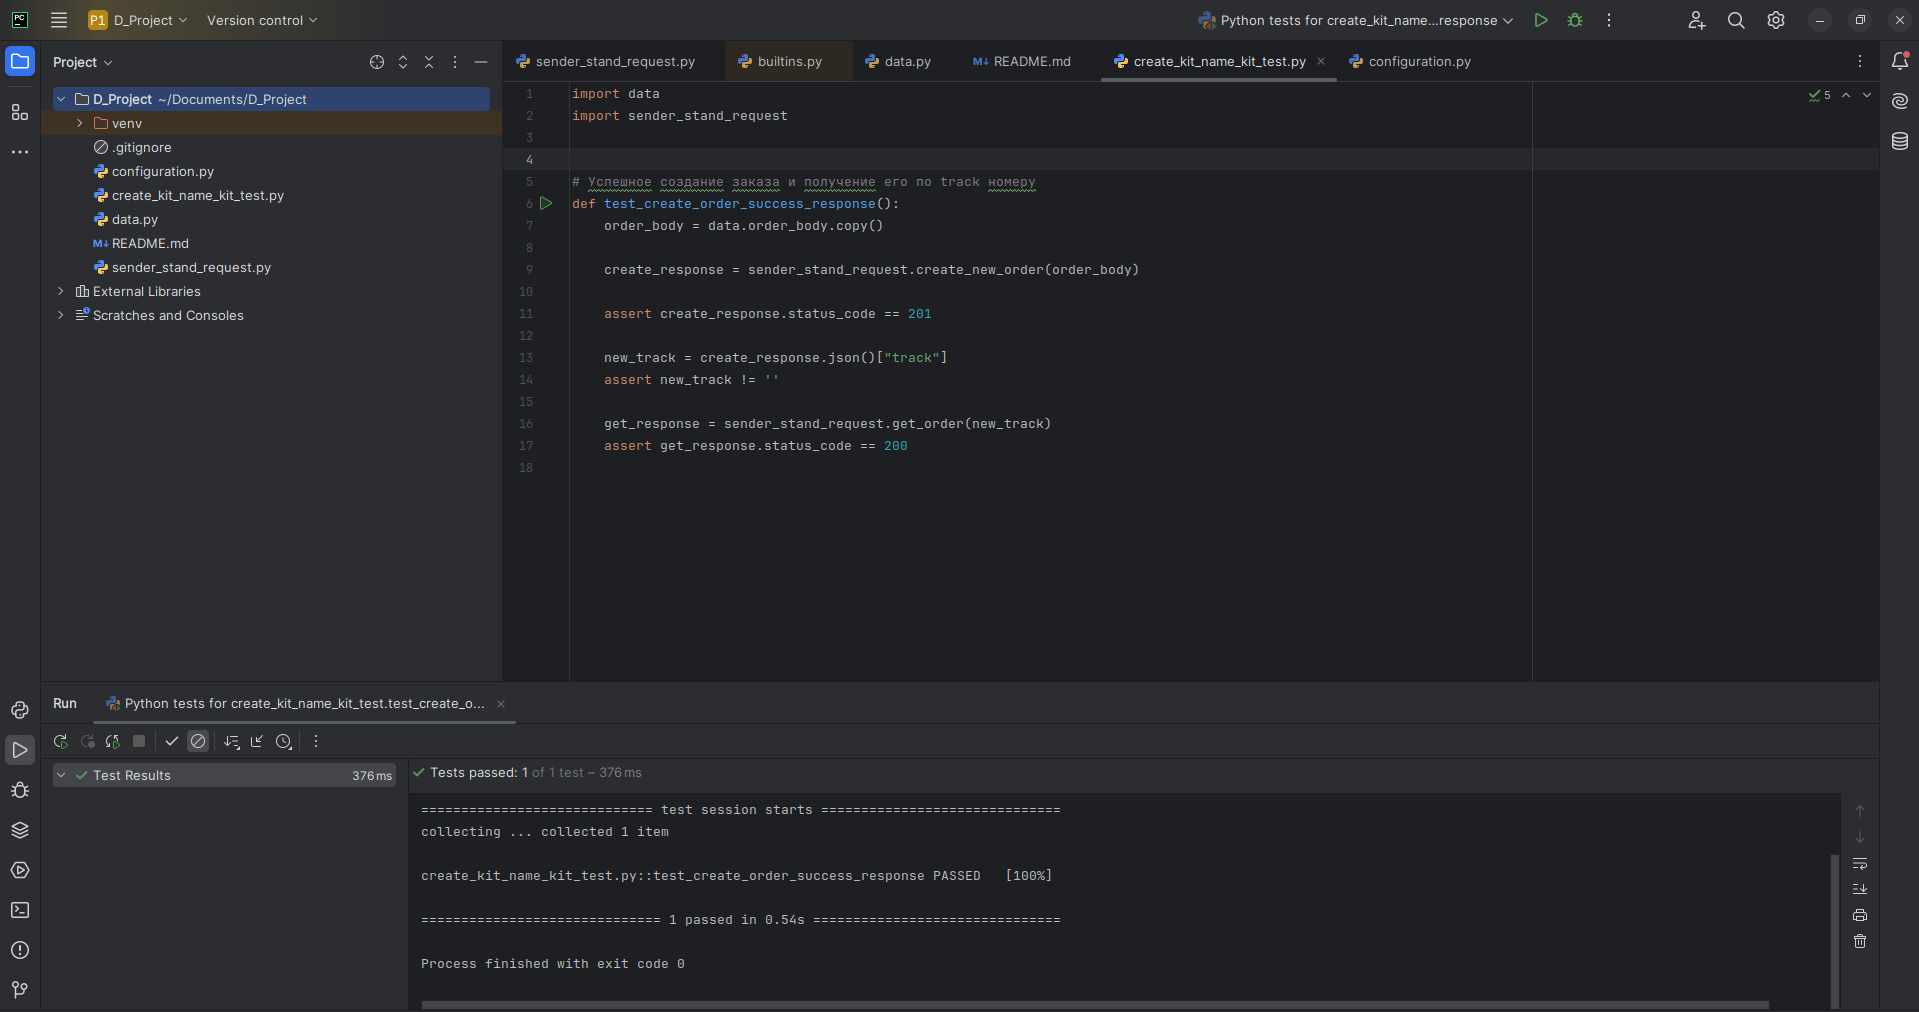
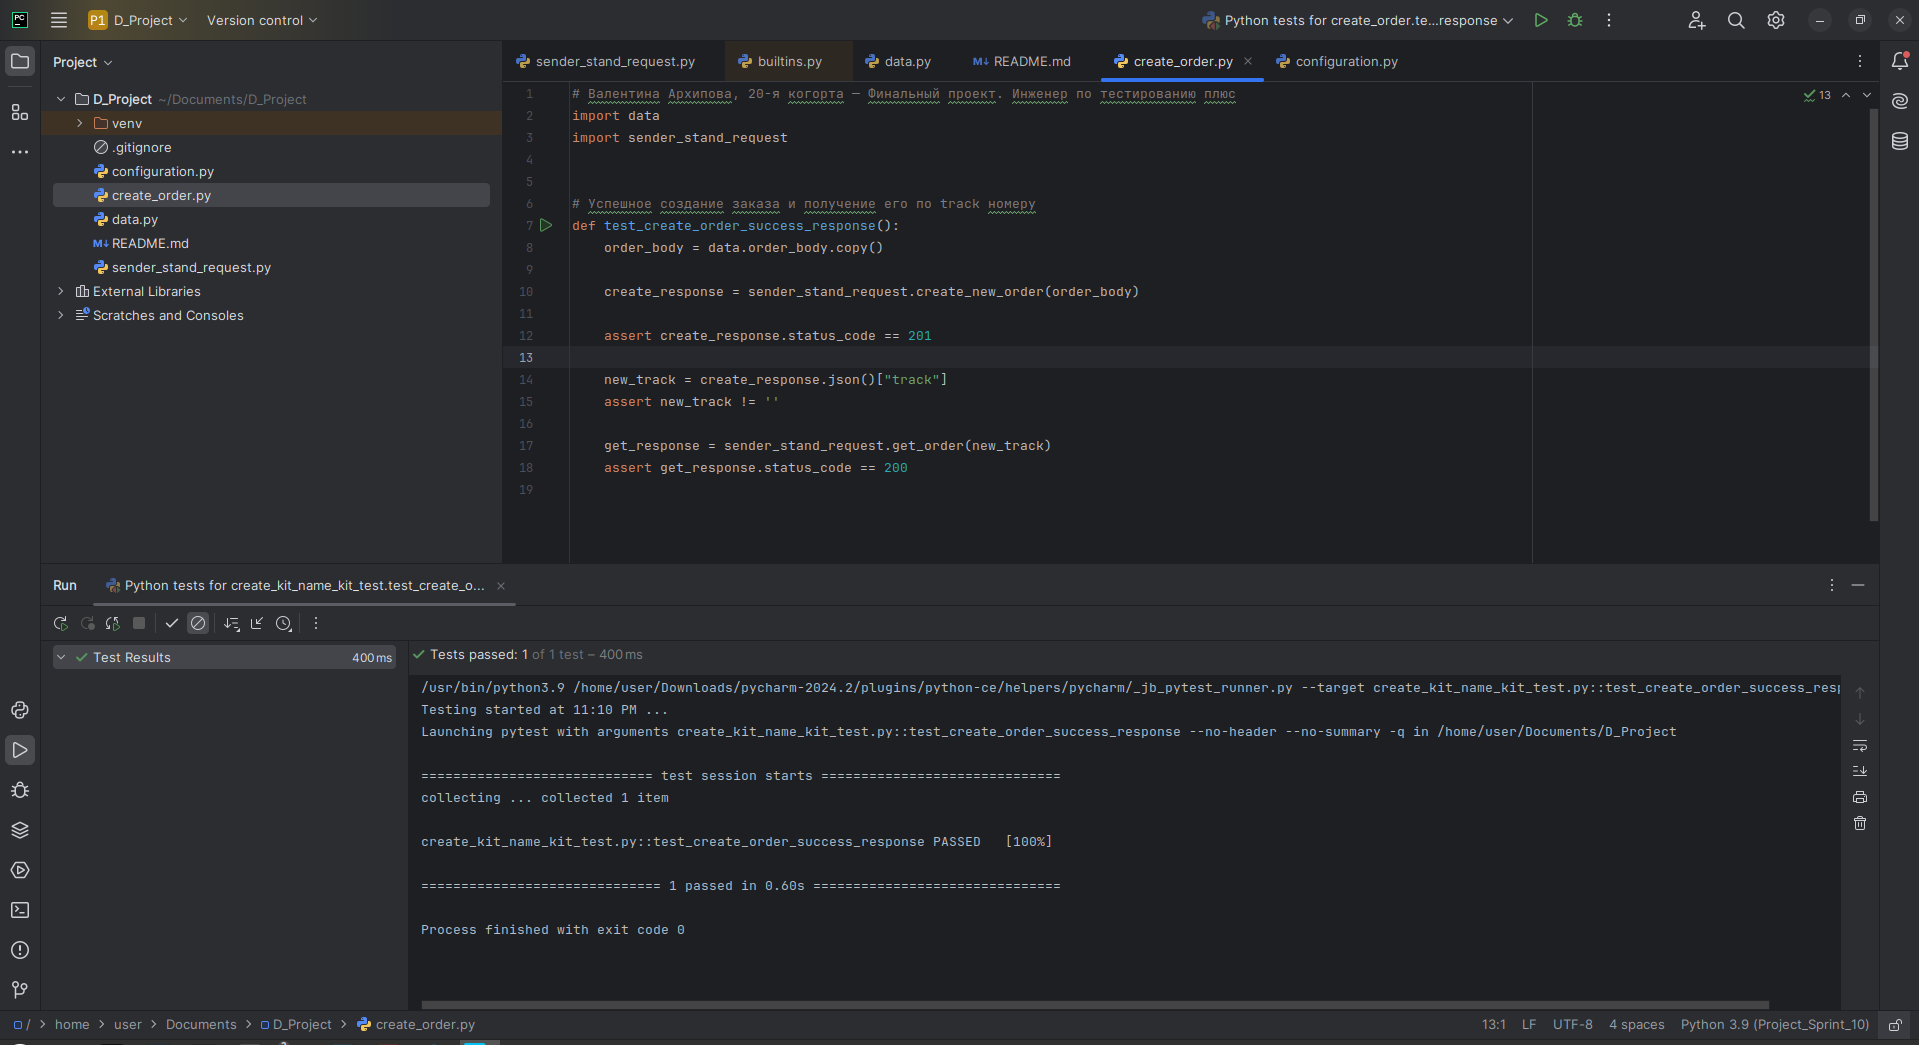
Добавлен комментарий с личными данными и обновлен скриншот

diff --git a/Автотест/D_Project/create_order_test.py b/Автотест/D_Project/create_order_test.py
@@ -1,3 +1,4 @@
+# Валентина Архипова, 20-я когорта — Финальный проект. Инженер по тестированию плюс
 import data
 import sender_stand_request
 
